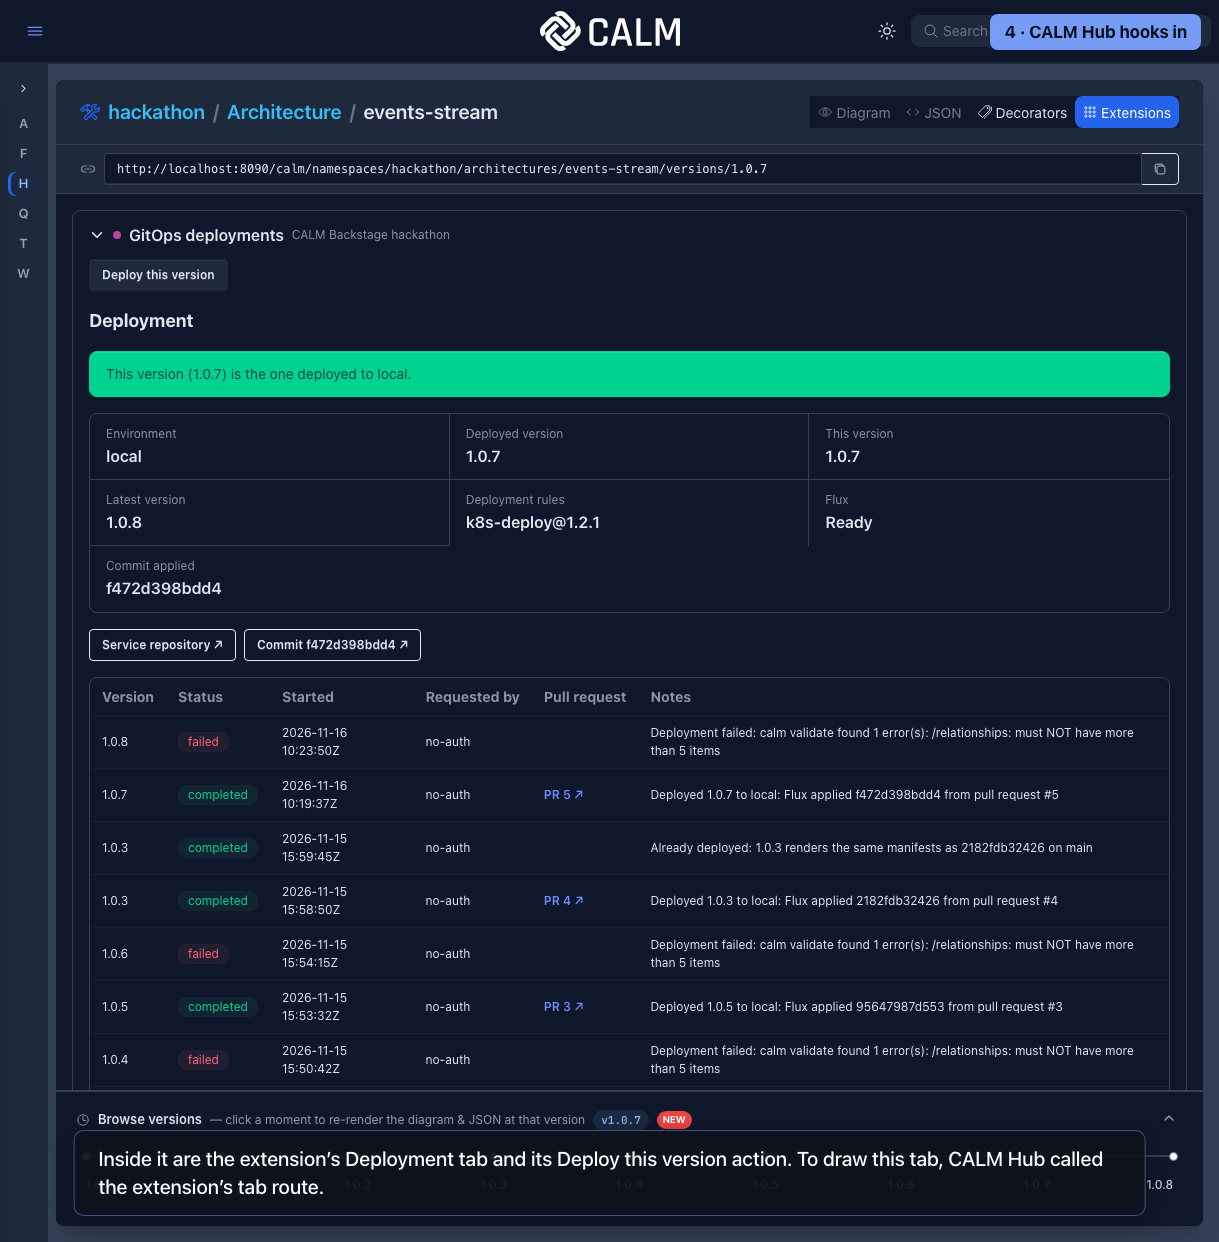
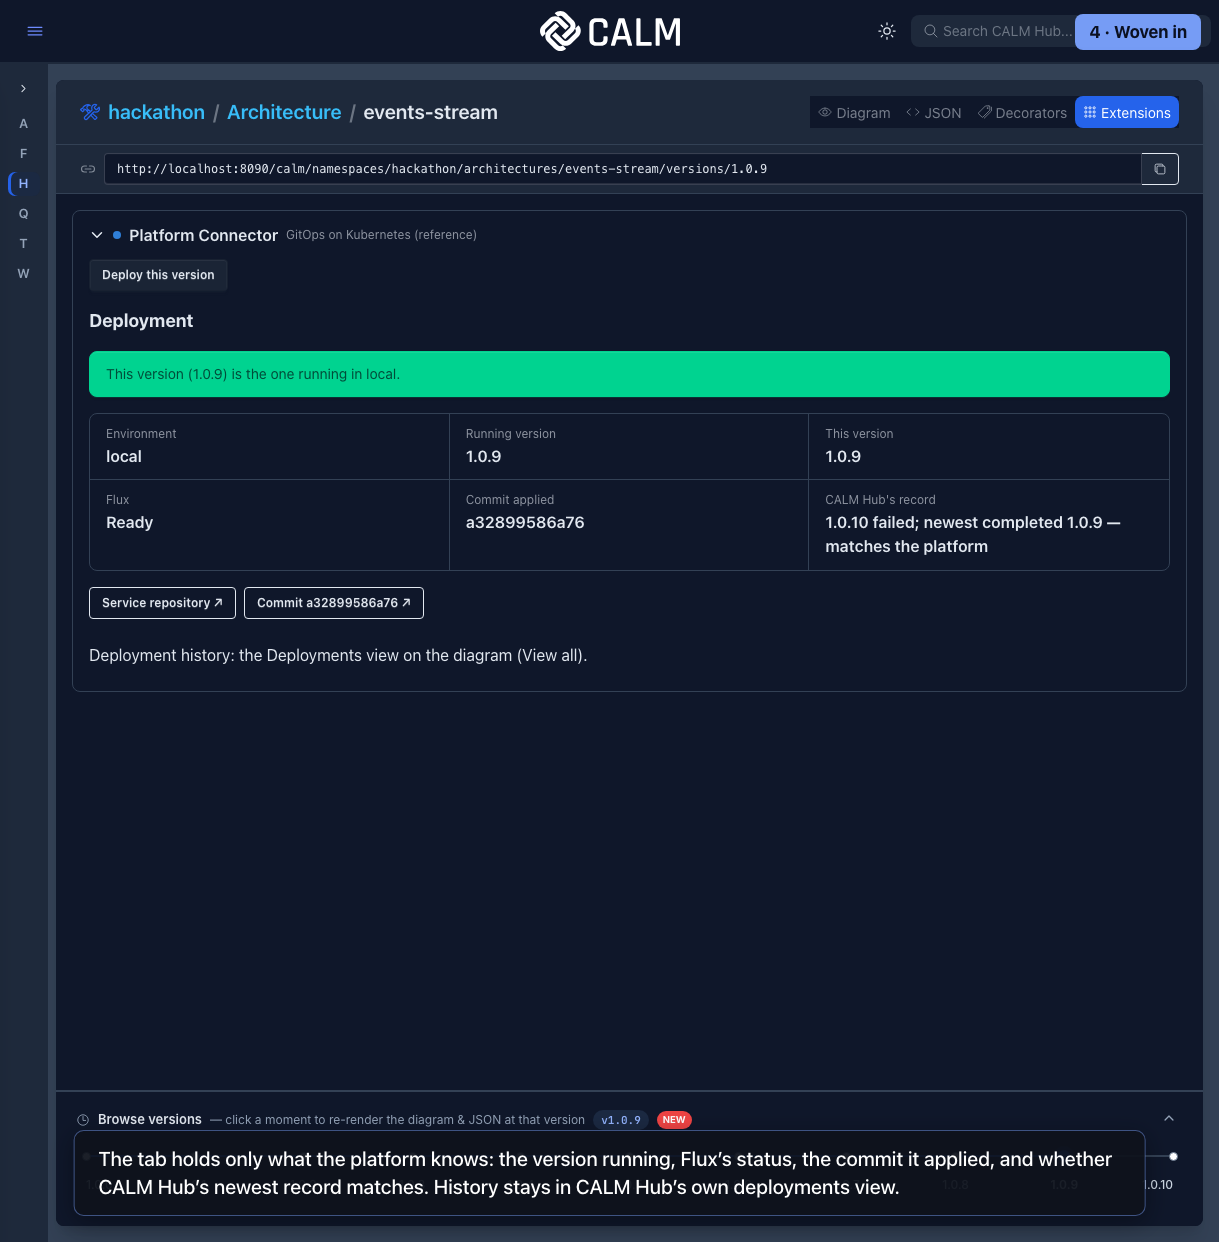
docs(demo): chapter times and stills from the Platform Connector take
13:22 in the presenter's voice: CALM Hub today, write-only records, the connector plugged in and woven into
CALM Hub, drift, a deploy recorded to the standard, the controls gate as a control evaluation, MCP.

Claude-Session: https://claude.ai/code/session_0187vGcs6AUfHZD2JusozwLv

diff --git a/calm-hub-deploy-extension/docs/demo/README.md b/calm-hub-deploy-extension/docs/demo/README.md
@@ -1,6 +1,6 @@
 # Demo: plugging a Platform Connector into CALM Hub
 
-A narrated walkthrough (1920×1080, one take, in the presenter's cloned voice; length to follow the take) with a
+A narrated walkthrough (1920×1080, one take, 13:22, in the presenter's cloned voice) with a
 terminal on the local cluster on the left and CALM Hub on the right. It starts with a tour of CALM Hub as it ships:
 namespaces, a pattern and its decisions, a control, an architecture, and the built-in deployment records, which are
 write-only. Then it plugs in the Platform Connector and shows it woven into CALM Hub's own screens. The connector
@@ -16,15 +16,15 @@ PostgreSQL and SQLite. Then it tries the version after that, which the pattern f
 
 | | Chapter | What it shows |
 |---|---|---|
-| — | CALM Hub today | The home page, with namespaces and control domains and no Extensions section. The `hackathon` namespace, the event-streaming pattern and its open decision (where the broker keeps its topics), and the Permitted Connection control in `hackathon-security`. `events-stream` and the `security` control on each connection. The registry lists only the two built-in decorator views. |
-| — | Deployment records are write-only | The built-in Deployments overlay, a node's badge and its details, and "View all" (the Decorators tab filtered to deployments). Any tool can write these records, but CALM Hub cannot tell whether one is still true, start a deployment, or stop one that breaks a control. |
-| — | A Platform Connector | The manifest: routes and scopes, contributions (action, Deployment tab, node detail panel, landing card, Services screen) and commands. Starts the backend with manual approval and restarts CALM Hub with it. The registry lists `platform-connector` and the MCP server has its tools. CALM Hub signs every call. |
-| — | Woven in | The home page card (services, in sync, drifted). The Extensions tab with the Deploy action and the trimmed Deployment tab. The node sidebar's Platform panel for `stream-app` (workload, replicas, image, network policies, the record that covers it). The connector's log of the calls CALM Hub made. |
-| — | Drift: what a record can't know | `stream-app` scaled to 0 behind Git's back. The panel and the tab show the drift while the deployment badge still says completed. `reconcile.sh` asks Flux to put it back, and the panel shows in sync again. |
-| — | A decision changes, and the connector deploys it | A new version with the broker's storage flipped, and the tab's warning. Deploy, the confirm dialog and Run. The controls gate comes first, then the standard deployment record goes pending and in progress on the Decorators tab and the overlay. The pull request in Gitea (files, and a commit message with who asked and the audit id), the approver merges, Flux applies, and the record ends completed. The record's `$schema`, `data.kubernetes` and `data.gitops`, CALM Hub's audit line with the same id, CALM Hub refusing a copy without `data.kubernetes.namespace` (HTTP 400), and the GitOps sub-standard in CALM Hub's Standards. |
-| — | The controls gate, as a control evaluation | A version with a forbidden connection is refused at the gate. No deployment record and no pull request, and the cluster is unchanged. The built-in Control evaluations overlay marks the connection and both nodes not met, and the details give the finding. |
-| — | The same connector, for an agent | The status and history commands as MCP tools: in sync, no drift, the workloads, CALM Hub's newest record, and the deployments and the refusal. |
-| — | The pattern | Recap. CALM Hub's standards keep it tool-neutral, and a connector adds understanding and action. Another firm writes one for its own platform against PROFILE.md. |
+| 0:00 | CALM Hub today | The home page, with namespaces and control domains and no Extensions section. The `hackathon` namespace, the event-streaming pattern and its open decision (where the broker keeps its topics), and the Permitted Connection control in `hackathon-security`. `events-stream` and the `security` control on each connection. The registry lists only the two built-in decorator views. |
+| 1:27 | Deployment records are write-only | The built-in Deployments overlay, a node's badge and its details, and "View all" (the Decorators tab filtered to deployments). Any tool can write these records, but CALM Hub cannot tell whether one is still true, start a deployment, or stop one that breaks a control. |
+| 2:06 | A Platform Connector | The manifest: routes and scopes, contributions (action, Deployment tab, node detail panel, landing card, Services screen) and commands. Starts the backend with manual approval and restarts CALM Hub with it. The registry lists `platform-connector` and the MCP server has its tools. CALM Hub signs every call. |
+| 4:21 | Woven in | The home page card (services, in sync, drifted). The Extensions tab with the Deploy action and the trimmed Deployment tab. The node sidebar's Platform panel for `stream-app` (workload, replicas, image, network policies, the record that covers it). The connector's log of the calls CALM Hub made. |
+| 5:24 | Drift: what a record can't know | `stream-app` scaled to 0 behind Git's back. The panel and the tab show the drift while the deployment badge still says completed. `reconcile.sh` asks Flux to put it back, and the panel shows in sync again. |
+| 6:26 | A decision changes, and the connector deploys it | A new version with the broker's storage flipped, and the tab's warning. Deploy, the confirm dialog and Run. The controls gate comes first, then the standard deployment record goes pending and in progress on the Decorators tab and the overlay. The pull request in Gitea (files, and a commit message with who asked and the audit id), the approver merges, Flux applies, and the record ends completed. The record's `$schema`, `data.kubernetes` and `data.gitops`, CALM Hub's audit line with the same id, CALM Hub refusing a copy without `data.kubernetes.namespace` (HTTP 400), and the GitOps sub-standard in CALM Hub's Standards. |
+| 10:35 | The controls gate, as a control evaluation | A version with a forbidden connection is refused at the gate. No deployment record and no pull request, and the cluster is unchanged. The built-in Control evaluations overlay marks the connection and both nodes not met, and the details give the finding. |
+| 11:52 | The same connector, for an agent | The status and history commands as MCP tools: in sync, no drift, the workloads, CALM Hub's newest record, and the deployments and the refusal. |
+| 12:51 | The pattern | Recap. CALM Hub's standards keep it tool-neutral, and a connector adds understanding and action. Another firm writes one for its own platform against PROFILE.md. |
 
 ![CALM Hub before the extension: no Extensions tab](hub-before.png)
 
